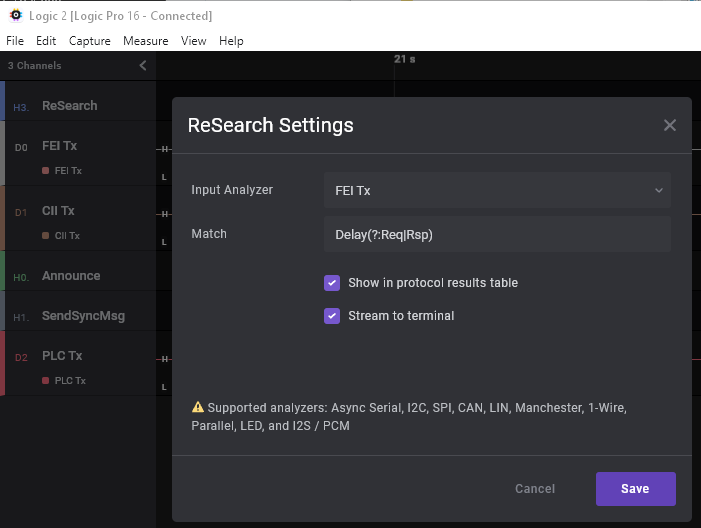
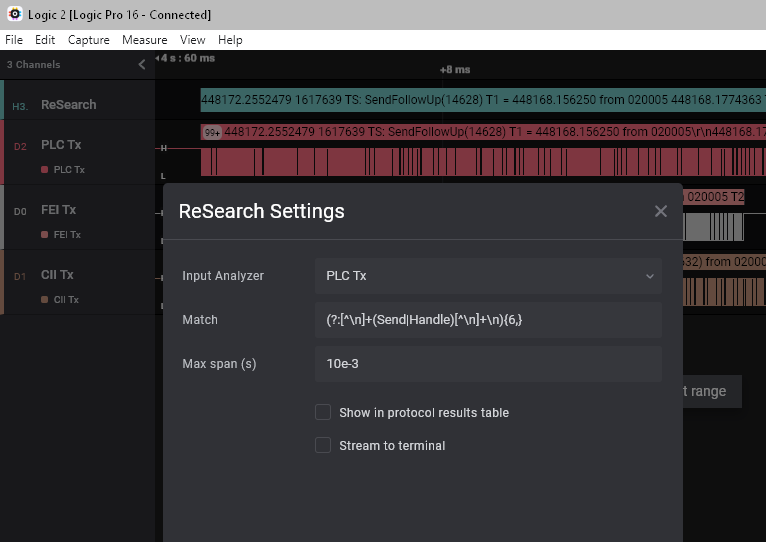
Add time limited matching.

diff --git a/ReSearch.py b/ReSearch.py
@@ -1,6 +1,7 @@
 import re
 from datetime import datetime
-from saleae.analyzers import HighLevelAnalyzer, AnalyzerFrame, StringSetting
+from saleae.analyzers import HighLevelAnalyzer, AnalyzerFrame
+from saleae.analyzers import NumberSetting, StringSetting
 from saleae.data import GraphTimeDelta as GTD
 
 kTimeZero = datetime(1, 1, 1)
@@ -73,11 +74,37 @@ class StrBlockBuffer:
             # the string. Trim the string and update the block start time
             startEpoch = block.start
             endEpoch = block.end
-            charTime = (endEpoch - startEpoch) / strLen
             delChars = lastIndex - blockStartIndex
-            block.start = startEpoch + GTD(charTime * delChars)
+            block.start = startEpoch + GTD(block.charTime * delChars)
             block.str = block.str[lastIndex - blockStartIndex : ]
-            block.charTime = charTime
+            return
+
+    def DropBefore(self, timeDelta):
+        # Remove all blocks before the end time of the last block - timeDelta
+        if not len(self.blocks):
+            return
+
+        # Calculate the cut off time
+        cutOffTime = self.blocks[-1].end - GTD(timeDelta)
+
+        while len(self.blocks):
+            block = self.blocks[0]
+            strLen = len(block.str)
+
+            if block.start > cutOffTime:
+                # Whole block is within allowed time span. Done
+                return
+
+            if block.end < cutOffTime:
+                # None of the block is within the allowed time span. Drop it.
+                del self.blocks[0]
+                continue
+
+            # The block spans the start of the allowed time span. Trim the
+            # block.
+            delCount = int((float(cutOffTime - block.start) + block.charTime) / block.charTime)
+            block.start += GTD(delCount * block.charTime)
+            block.str = block.str[delCount : ]
             return
 
     def Match(self, drop = False):
@@ -142,6 +169,7 @@ class StrBlockBuffer:
 class ReSearch(HighLevelAnalyzer):
 
     kMatch = StringSetting(label = "Match")
+    kMatchTime = StringSetting(label = "Max span (s)")
 
     result_types = {
         "Matched": {"format": "{{{data.Matched}}}"},
@@ -188,9 +216,7 @@ class ReSearch(HighLevelAnalyzer):
         if 'address' in params.data and params.data["address"]:
             asStr = '@' + hex(params.data["data"][0]) + ' '
 
-        elif self.haveAddress \
-            or params.data["data"][0] > 127 \
-            or params.data["data"][0] < 32:
+        elif self.haveAddress or params.data["data"][0] > 127:
             # I2C or other bus protocol with addressed devices or the character
             # from an async serial analyzer is outside the ASCII range
             asStr = hex(params.data["data"][0]) + ' '
@@ -218,6 +244,11 @@ class ReSearch(HighLevelAnalyzer):
         self.isSource = False
         self.Reset()
 
+        if not len(self.kMatchTime):
+            self.kMatchTime = "0"
+
+        self.kMatchTime = float(str(self.kMatchTime))
+
         # handlers return True if a match should be attempted
         self.handlerDispatch = {
             "address": self.AddAddress,
@@ -237,6 +268,9 @@ class ReSearch(HighLevelAnalyzer):
 
         if not self.handlerDispatch[newFrame.type](newFrame):
             return
+
+        if self.kMatchTime:
+            self.blocks.DropBefore(self.kMatchTime)
 
         match = self.blocks.Match(drop = True)
 

diff --git a/README.md b/README.md
@@ -17,15 +17,33 @@ supported.
 Install **ReSearch** by clicking "Install" on the **Re Search** entry in the
 Extensions panel.
 
-Use the Analyzers side panel to use a Re Search analyzer with a suitable low
-level analyser. At present the Async Serial analyzer is well supported. I2C
-partial support has been added, but not thoroughly tested. Untested support for
-other LLAs may be added in the future.
+Use the Analyzers side panel to add a Re Search analyzer.
 
-In the ReSearch Settings dialog select the required input analyzer then set the
-regular expression match string. Python regular expression syntax is used for
-the match string. Note that the provided match is not checked for syntax errors
-(a badly formed string will generate a somewhat cryptic error dialog in Logic!)
+In the ReSearch Settings dialog select the LLA. At present the Async Serial
+analyzer is well supported. I2C partial support has been added, but is not
+thoroughly tested. Support for other LLAs may be added in the future.
+
+### Match
+
+Use the Match setting to set teh regular expression. Python regular expression
+syntax is used for the match string. Note that the provided match is not checked
+for syntax errors (a badly formed string will generate a somewhat cryptic error
+dialog in Logic!).
+
+Note that trailing wild card matches are generally not useful as the match is
+performed when each character is added to the target string. For example, `fox.*`
+will match `fox`, at which point all characters up to and including `fox` will
+be dropped. Anchor the end of the expression with a non-wild pattern. Often a
+positive look ahead match (`(?= ...)`) is useful as an anchor.
+
+### Max span (s)
+
+Use the **Max span (s)** setting to specify the maximum width in seconds allowed
+for a match. This can be used to match only within a block of text when there is
+significant time between blocks for example. It also makes the matching process
+run faster because it can ignore anything that is too old.
+
+Setting **Max span (s)** to `0` or leaving it blank turns this feature off.
 
 ## Data Rendering
 
